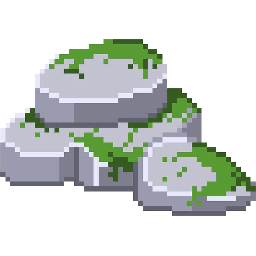
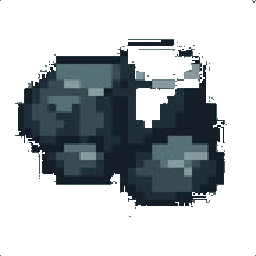
Terrain: bush, boulder, rocks, grass and water sprites; doors and windows taken out
Claude-Session: https://claude.ai/code/session_014ScUJAa2LXdg6ghJqmuJE6

diff --git a/app/session/parts/terrain-layer.tsx b/app/session/parts/terrain-layer.tsx
@@ -1,6 +1,6 @@
 "use client";
 // Terrain on the battle map: what each painted square looks like (the DM's own pictures from /public/terrain
-// when they're there, colours until then), heights, doors and windows; and the DM's paint tools.
+// when they're there, colours until then), heights; and the DM's paint tools.
 import { useState } from "react";
 import { KINDS, KIND_LIST, type Kind, type TerrainData } from "@/lib/engine/terrain";
 
@@ -8,9 +8,9 @@ import { KINDS, KIND_LIST, type Kind, type TerrainData } from "@/lib/engine/terr
  * Pictures in /public/terrain/<name>.png that are there (the DM's own). Grass, water, fire, lava and smoke stay
  * plain colours on purpose; everything else uses its colour until its picture is added here.
  */
-export const TERRAIN_PICTURES = new Set<string>(["barrel", "rocks", "crate", "torch", "wall", "tree"]);
+export const TERRAIN_PICTURES = new Set<string>(["barrel", "rocks", "boulder", "bush", "crate", "torch", "wall", "tree", "grass", "water-shallow", "water-deep"]);
 
-export type Brush = { kind: Kind | "clear" | null; height: number | null; door: "door" | "window" | null; size: 1 | 3 };
+export type Brush = { kind: Kind | "clear" | null; height: number | null; size: 1 | 3 };
 
 /** Draws the terrain (grid units). */
 export function TerrainLayer({ data }: { data: TerrainData }) {
@@ -43,20 +43,6 @@ export function TerrainLayer({ data }: { data: TerrainData }) {
           </g>
         );
       })}
-      {Object.entries(data.doors).map(([k, d]) => {
-        const [x, y] = k.split(",").map(Number);
-        const name = d.window ? "window" : d.open ? "door-open" : "door-closed";
-        const pic = TERRAIN_PICTURES.has(name) ? name : null;
-        return pic
-          ? <image key={`door${k}`} href={`/terrain/${pic}.png`} x={x} y={y} width={1} height={1} data-door={d.open ? "open" : "closed"} style={{ imageRendering: "pixelated" }} />
-          : (
-            <g key={`door${k}`} data-door={d.window ? "window" : d.open ? "open" : "closed"}>
-              <rect x={x + 0.08} y={y + 0.08} width={0.84} height={0.84} rx={0.08} fill={d.window ? "#9fd3ef" : d.open ? "none" : "#7a4a22"} fillOpacity={d.window ? 0.55 : 1}
-                stroke={d.window ? "#d9f1ff" : "#c08a52"} strokeWidth={0.07} strokeDasharray={d.open ? "0.15 0.1" : undefined} />
-              {!d.window && !d.open && <circle cx={x + 0.72} cy={y + 0.5} r={0.06} fill="#e5c07b" />}
-            </g>
-          );
-      })}
     </g>
   );
 }
@@ -66,10 +52,10 @@ const GLYPH: Partial<Record<Kind, string>> = {
   fire: "🔥", lava: "🌋", spikes: "✴", acid: "☣",
 };
 
-/** The DM's paint tools: what to paint, a height, doors and windows, brush size. */
+/** The DM's paint tools: what to paint, a height, brush size. */
 export function PaintTools({ brush, setBrush }: { brush: Brush | null; setBrush: (b: Brush | null) => void }) {
   const [h, setH] = useState("10");
-  const b: Brush = brush ?? { kind: null, height: null, door: null, size: 1 };
+  const b: Brush = brush ?? { kind: null, height: null, size: 1 };
   const pick = (next: Partial<Brush>) => setBrush({ ...b, ...next });
   const on = !!brush;
   return (
@@ -81,16 +67,12 @@ export function PaintTools({ brush, setBrush }: { brush: Brush | null; setBrush:
       <p className="text-xs text-muted">Pick what to paint, then drag a finger over the map (two fingers zoom). {on ? "" : "Tap a kind to start."}</p>
       <div className="mt-2 flex flex-wrap gap-1.5" role="radiogroup" aria-label="Terrain">
         {KIND_LIST.filter((k) => k !== "ground").map((k) => (
-          <button key={k} type="button" role="radio" aria-checked={b.kind === k && on} onClick={() => pick({ kind: k, door: null, height: null })}
+          <button key={k} type="button" role="radio" aria-checked={b.kind === k && on} onClick={() => pick({ kind: k, height: null })}
             className={`flex h-9 items-center gap-1.5 rounded-full border px-2.5 text-xs ${b.kind === k && on ? "border-accent bg-accent-surface font-bold text-accent" : "border-line text-soft"}`}>
             <span aria-hidden className="inline-block h-3 w-3 rounded-sm" style={{ background: KINDS[k].color === "transparent" ? "none" : KINDS[k].color }} />{KINDS[k].label}
           </button>
         ))}
-        <button type="button" role="radio" aria-checked={b.door === "door" && on} onClick={() => pick({ kind: null, door: "door", height: null })}
-          className={`h-9 rounded-full border px-2.5 text-xs ${b.door === "door" && on ? "border-accent bg-accent-surface font-bold text-accent" : "border-line text-soft"}`}>Door</button>
-        <button type="button" role="radio" aria-checked={b.door === "window" && on} onClick={() => pick({ kind: null, door: "window", height: null })}
-          className={`h-9 rounded-full border px-2.5 text-xs ${b.door === "window" && on ? "border-accent bg-accent-surface font-bold text-accent" : "border-line text-soft"}`}>Window</button>
-        <button type="button" role="radio" aria-checked={b.kind === "clear" && on} onClick={() => pick({ kind: "clear", door: null, height: null })}
+        <button type="button" role="radio" aria-checked={b.kind === "clear" && on} onClick={() => pick({ kind: "clear", height: null })}
           className={`h-9 rounded-full border px-2.5 text-xs ${b.kind === "clear" && on ? "border-danger-line bg-danger-bg font-bold text-danger" : "border-line text-soft"}`}>Erase</button>
       </div>
       <div className="mt-2 flex flex-wrap items-center gap-2 text-xs text-muted">
@@ -98,7 +80,7 @@ export function PaintTools({ brush, setBrush }: { brush: Brush | null; setBrush:
         <input inputMode="numeric" value={h} onChange={(e) => setH(e.target.value.replace(/[^\d-]/g, "").slice(0, 4))} aria-label="Height in feet"
           className="h-9 w-16 rounded-lg border border-line bg-bg px-2 text-sm text-text" />
         <span>ft</span>
-        <button type="button" aria-pressed={b.height !== null && on} onClick={() => pick({ height: Number(h) || 0, kind: b.kind === "clear" ? null : b.kind, door: null })}
+        <button type="button" aria-pressed={b.height !== null && on} onClick={() => pick({ height: Number(h) || 0, kind: b.kind === "clear" ? null : b.kind })}
           className={`h-9 rounded-full border px-2.5 ${b.height !== null && on ? "border-accent bg-accent-surface font-bold text-accent" : "border-line text-soft"}`}>Paint height</button>
         <span className="ml-auto">Brush</span>
         {([1, 3] as const).map((n) => (
@@ -107,7 +89,7 @@ export function PaintTools({ brush, setBrush }: { brush: Brush | null; setBrush:
         ))}
       </div>
       <p className="mt-1.5 text-[11px] leading-snug text-muted">
-        Walls, trees and boulders block moving (trees and boulders: up to three-quarters cover). Bushes, barrels, crates and windows: half cover.
+        Walls, trees and boulders block moving (trees and boulders: up to three-quarters cover). Bushes, barrels and crates: half cover.
         Grass, rocks, water and bushes: difficult terrain. Fire, lava, spikes and acid hurt. Height: climbing costs extra; higher ground blocks the view from below.
       </p>
     </div>

diff --git a/lib/engine/terrain.ts b/lib/engine/terrain.ts
@@ -1,6 +1,6 @@
 // Battle engine, part 5: what each kind of terrain does (pure, tested).
-// The DM paints squares with a kind (tree, water, barrels…), a height, doors and windows, and hazards.
-// Stored on the map as terrain v2: { v: 2, cells: { "3,4": { k: "tree", h: 10 } }, doors: { "5,5": { open: false } } }.
+// The DM paints squares with a kind (tree, water, barrels…), a height, and hazards.
+// Stored on the map as terrain v2: { v: 2, cells: { "3,4": { k: "tree", h: 10 } } }.
 // The old format ({ walls: [...], difficult: [...] }) still reads.
 
 export type Kind =
@@ -35,8 +35,7 @@ export const KIND_LIST = Object.keys(KINDS) as Kind[];
 export const isKind = (k: unknown): k is Kind => typeof k === "string" && k in KINDS;
 
 export type Cell = { k: Kind; h?: number };         // h: height in feet (+ hill, ledge; − pit)
-export type Door = { open: boolean; window?: boolean };
-export type TerrainData = { v: 2; cells: Record<string, Cell>; doors: Record<string, Door> };
+export type TerrainData = { v: 2; cells: Record<string, Cell> };
 
 const okKey = (s: string) => /^\d+,\d+$/.test(s);
 
@@ -44,7 +43,6 @@ const okKey = (s: string) => /^\d+,\d+$/.test(s);
 export function readTerrain(raw: unknown): TerrainData {
   const r = (raw && typeof raw === "object" ? raw : {}) as Record<string, unknown>;
   const cells: Record<string, Cell> = {};
-  const doors: Record<string, Door> = {};
   for (const k of (Array.isArray(r.walls) ? r.walls : []).map(String)) if (okKey(k)) cells[k] = { k: "wall" };
   for (const k of (Array.isArray(r.difficult) ? r.difficult : []).map(String)) if (okKey(k) && !cells[k]) cells[k] = { k: "difficult" };
   const rc = (r.cells && typeof r.cells === "object" ? r.cells : {}) as Record<string, unknown>;
@@ -57,29 +55,21 @@ export function readTerrain(raw: unknown): TerrainData {
     if (kind === "ground" && !h) continue;
     cells[k] = h ? { k: kind, h } : { k: kind };
   }
-  const rd = (r.doors && typeof r.doors === "object" ? r.doors : {}) as Record<string, unknown>;
-  for (const [k, v] of Object.entries(rd)) {
-    if (!okKey(k)) continue;
-    const d = (v ?? {}) as Record<string, unknown>;
-    doors[k] = { open: !!d.open, ...(d.window ? { window: true } : {}) };
-  }
-  return { v: 2, cells, doors };
+  return { v: 2, cells };
 }
 
-/** Paint squares: a kind (keeps the height), a height (keeps the kind), or clear. Doors and windows too. */
-export function paint(t: TerrainData, keys: string[], what: { kind?: Kind | "clear"; height?: number; door?: "door" | "window" | "none" }): TerrainData {
-  const cells = { ...t.cells }, doors = { ...t.doors };
+/** Paint squares: a kind (keeps the height), a height (keeps the kind), or clear. */
+export function paint(t: TerrainData, keys: string[], what: { kind?: Kind | "clear"; height?: number }): TerrainData {
+  const cells = { ...t.cells };
   for (const k of keys) {
     if (!okKey(k)) continue;
     const old = cells[k];
-    if (what.kind === "clear") { delete cells[k]; delete doors[k]; continue; }
+    if (what.kind === "clear") { delete cells[k]; continue; }
     const kind = what.kind ?? old?.k ?? "ground";
     const h = what.height !== undefined ? Math.max(-200, Math.min(200, Math.round(what.height))) : old?.h ?? 0;
     if (kind === "ground" && !h) delete cells[k]; else cells[k] = h ? { k: kind, h } : { k: kind };
-    if (what.door === "none") delete doors[k];
-    else if (what.door) doors[k] = { open: false, ...(what.door === "window" ? { window: true } : {}) };
   }
-  return { v: 2, cells, doors };
+  return { v: 2, cells };
 }
 
 /** The squares of a brush stroke between two points (a straight line of squares, `size` wide). */

diff --git a/app/session/parts/battle-map.tsx b/app/session/parts/battle-map.tsx
@@ -5,13 +5,13 @@ import { useRouter } from "next/navigation";
 import { useEffect, useMemo, useRef, useState, useTransition } from "react";
 import { inRange, place, squaresIn, tokensIn, type Placed } from "@/lib/maps/area";
 import { freeAt, squares } from "@/lib/maps/move";
-import { distanceFt, key as sqKey, reachableSquares, standUpCost, type MoveCtx } from "@/lib/engine/space";
+import { distanceFt, reachableSquares, standUpCost, type MoveCtx } from "@/lib/engine/space";
 import { speedOf } from "@/lib/engine/conditions";
 import type { Battle, BattleToken } from "@/lib/maps-data";
 import type { Combatant } from "@/lib/session-data";
 import { Board, type Pt } from "../../components/map/board";
 import { PortraitButton } from "../../components/map/portrait";
-import { castArea, dashToken, disengageToken, moveToken, paintTerrain, setTokenHidden, teleportToken, toggleDoor } from "../map-actions";
+import { castArea, dashToken, disengageToken, moveToken, paintTerrain, setTokenHidden, teleportToken } from "../map-actions";
 import { paint as paintCells, strokeSquares, type TerrainData } from "@/lib/engine/terrain";
 import { terrainOf } from "@/lib/engine/space";
 import { PaintTools, TerrainLayer, type Brush } from "./terrain-layer";
@@ -41,7 +41,7 @@ export function BattleMap({ battle, combatants, isDm, teleports = [], teleportCh
   const [hideArea, setHideArea] = useState<string | null>(null);
   // DM: painting terrain with a brush (squares change at once, the server keeps them)
   const [brush, setBrush] = useState<Brush | null>(null);
-  const paint = brush && (brush.kind || brush.door || brush.height !== null) ? brush : null;
+  const paint = brush && (brush.kind || brush.height !== null) ? brush : null;
   const [localT, setLocalT] = useState<TerrainData | null>(null);
   const pendingCells = useRef<Set<string>>(new Set());
   const flushTimer = useRef<ReturnType<typeof setTimeout> | null>(null);
@@ -122,7 +122,7 @@ export function BattleMap({ battle, combatants, isDm, teleports = [], teleportCh
 
   /** What the brush paints, as the server understands it. */
   const brushWhat = (b: Brush) => ({
-    ...(b.kind ? { kind: b.kind } : {}), ...(b.height !== null ? { height: b.height } : {}), ...(b.door ? { door: b.door } : {}),
+    ...(b.kind ? { kind: b.kind } : {}), ...(b.height !== null ? { height: b.height } : {}),
   });
   function brushStroke(from: Pt, to: Pt) {
     if (!paint || !isDm) return;
@@ -149,12 +149,6 @@ export function BattleMap({ battle, combatants, isDm, teleports = [], teleportCh
     if (Object.keys(optimistic).length) return; // the last move is still on its way
     const sq = { x: Math.floor(p.x), y: Math.floor(p.y) };
     if (paint && isDm) return; // painting happens on the brush strokes
-    // a door: open or close it (players: on their turn, standing next to it)
-    const doorKey = sqKey(sq.x, sq.y);
-    const door = tData.doors[doorKey];
-    if (door && !door.window && !aim && !tele) {
-      return act(() => toggleDoor(doorKey), (r) => setNote(r.open ? "The door is open." : "The door is closed."));
-    }
     const at = tokens.find((t) => sq.x >= t.x && sq.x < t.x + t.size && sq.y >= t.y && sq.y < t.y + t.size) ?? null;
     if (aim) {
       if (aim.spec.shape === "targets") {

diff --git a/app/session/map-actions.ts b/app/session/map-actions.ts
@@ -7,7 +7,7 @@ import { ensureTokens } from "@/lib/maps-data";
 import { freeAt, moveBudget, squares, TELEPORTS } from "@/lib/maps/move";
 import { battleState, moveCtx, terrainHarm, who } from "@/lib/maps/server";
 import { canAct, speedOf } from "@/lib/engine/conditions";
-import { distanceFt, moveCosts, provoked, standingZ, standUpCost } from "@/lib/engine/space";
+import { moveCosts, provoked, standingZ, standUpCost } from "@/lib/engine/space";
 import { isKind, paint, readTerrain, type Kind } from "@/lib/engine/terrain";
 import { addEffect } from "./effect-actions";
 import { liveState, touchCombat } from "@/lib/roll-service";
@@ -198,8 +198,8 @@ export async function castArea(characterId: string, optionKey: string, aim: { x:
   return { ...res, hit: targets.length };
 }
 
-/** DM: paint squares of the fight's map: a kind of terrain, a height, a door or window, or clear them. */
-export async function paintTerrain(cells: string[], what: { kind?: Kind | "clear"; height?: number; door?: "door" | "window" | "none" }): Promise<Fail | { ok: true }> {
+/** DM: paint squares of the fight's map: a kind of terrain, a height, or clear them. */
+export async function paintTerrain(cells: string[], what: { kind?: Kind | "clear"; height?: number }): Promise<Fail | { ok: true }> {
   const me = await who();
   if (!me.campaignId || !me.isDm) return { error: "Only the DM can paint the map." };
   const b = await battleState(me.campaignId);
@@ -213,23 +213,3 @@ export async function paintTerrain(cells: string[], what: { kind?: Kind | "clear
   return { ok: true };
 }
 
-/** Open or close a door: the DM any time; a player on their turn, standing next to it. */
-export async function toggleDoor(cell: string): Promise<Fail | { open: boolean }> {
-  const me = await who();
-  if (!me.userId || !me.campaignId) return { error: "Log in first." };
-  const b = await battleState(me.campaignId);
-  if (!b) return NO_MAP;
-  const t = readTerrain(b.terrainRaw);
-  const door = t.doors[cell];
-  if (!door || door.window) return { error: "There's no door there." };
-  if (!me.isDm) {
-    const mine = b.tokens.find((k) => k.owner === me.userId && k.combatant_id === b.currentCombatantId);
-    if (!mine) return { error: "You can open doors on your turn." };
-    const [x, y] = cell.split(",").map(Number);
-    if (distanceFt(mine, { id: "door", x, y, size: 1 }, b.map.feet, b.diag) > 5) return { error: "Stand next to the door to open it." };
-  }
-  t.doors[cell] = { ...door, open: !door.open };
-  await b.admin.from("battle_maps").update({ terrain: t }).eq("id", b.map.id);
-  await touchCombat(b.admin, b.combat.id);
-  return { open: !door.open };
-}

diff --git a/lib/engine/space.ts b/lib/engine/space.ts
@@ -8,11 +8,11 @@ export type Pos = { x: number; y: number };
 /** z: feet above the ground it stands on (flying); the ground's own height comes from the terrain. */
 export type Body = Pos & { id: string; size: number; z?: number };
 export type Terrain = {
-  walls: Set<string>;      // can't move through (walls, trees, boulders, closed doors, windows)
+  walls: Set<string>;      // can't move through (walls, trees, boulders)
   difficult: Set<string>;  // costs double
-  sight: Set<string>;      // blocks sight completely (walls, closed doors)
+  sight: Set<string>;      // blocks sight completely (walls)
   capped: Set<string>;     // blocks sight, but gives three-quarters cover at most (trees, boulders)
-  half: Set<string>;       // half cover (bushes, barrels, crates, windows)
+  half: Set<string>;       // half cover (bushes, barrels, crates)
   height: Map<string, number>; // feet above (or below) the floor
   obscured: Set<string>;   // lightly obscured (tall grass, bushes)
   hazards: Map<string, HazardRule & { kind: Kind }>;
@@ -20,7 +20,7 @@ export type Terrain = {
 };
 export const key = (x: number, y: number) => `${x},${y}`;
 
-/** Terrain as stored with a map (old { walls, difficult } lists, or v2 cells / doors). */
+/** Terrain as stored with a map (old { walls, difficult } lists, or v2 cells). */
 export function terrainOf(raw: unknown): Terrain {
   const d = readTerrain(raw);
   const t: Terrain = { walls: new Set(), difficult: new Set(), sight: new Set(), capped: new Set(), half: new Set(), height: new Map(), obscured: new Set(), hazards: new Map(), swim: new Set() };
@@ -35,10 +35,6 @@ export function terrainOf(raw: unknown): Terrain {
     if (r.swim) t.swim.add(k);
     if (r.hazard) t.hazards.set(k, { ...r.hazard, kind: c.k });
     if (c.h) t.height.set(k, c.h);
-  }
-  for (const [k, door] of Object.entries(d.doors)) {
-    if (door.window) { t.walls.add(k); t.half.add(k); continue; }
-    if (!door.open) { t.walls.add(k); t.sight.add(k); }
   }
   return t;
 }

diff --git a/lib/engine/terrain.test.ts b/lib/engine/terrain.test.ts
@@ -13,7 +13,6 @@ describe("terrain kinds", () => {
     expect(p.cells["3,3"]).toEqual({ k: "tree" });
     expect(paint(p, ["3,3"], { height: 10 }).cells["3,3"]).toEqual({ k: "tree", h: 10 });
     expect(paint(p, ["3,3"], { kind: "clear" }).cells["3,3"]).toBeUndefined();
-    expect(paint(t, ["4,4"], { door: "door" }).doors["4,4"]).toEqual({ open: false });
     expect(strokeSquares({ x: 0.5, y: 0.5 }, { x: 3.5, y: 0.5 })).toEqual(["0,0", "1,0", "2,0", "3,0"]);
     expect(strokeSquares({ x: 2.5, y: 2.5 }, { x: 2.5, y: 2.5 }, 3)).toHaveLength(9);
   });
@@ -24,14 +23,6 @@ describe("terrain kinds", () => {
     const forest = terrainOf({ v: 2, cells: Object.fromEntries([0, 1, 2, 3, 4, 5, 6].flatMap((y) => [[`2,${y}`, { k: "boulder" }]])) });
     expect(coverOf(b("a", 0, 3), b("t", 4, 3), forest, []).level).toBe("three-quarters");
     expect(coverOf(b("a", 0, 0), b("t", 4, 0), terrainOf({ v: 2, cells: { "2,0": { k: "barrel" } } }), []).level).toBe("half");
-  });
-  it("closed doors block, open ones don't; windows block moving but not sight", () => {
-    const shut = terrainOf({ v: 2, cells: {}, doors: { "1,0": { open: false } } });
-    expect(shut.walls.has("1,0")).toBe(true);
-    expect(terrainOf({ v: 2, cells: {}, doors: { "1,0": { open: true } } }).walls.has("1,0")).toBe(false);
-    const win = terrainOf({ v: 2, cells: {}, doors: { "1,0": { open: false, window: true } } });
-    expect(win.walls.has("1,0")).toBe(true);
-    expect(win.sight.has("1,0")).toBe(false);
   });
   it("height: climbing costs extra, distance counts it, a ridge blocks the view from below", () => {
     const hill = { v: 2, cells: { "1,0": { k: "ground", h: 10 } } };

diff --git a/public/terrain/README.md b/public/terrain/README.md
@@ -1,4 +1,4 @@
 Terrain pictures for the battle map (top-down, 32-bit PNG with transparency, square, 256×256).
-Names: tree, bush, rocks, boulder, barrel, crate, wall, door-closed, door-open, window, spikes, acid, torch (+ stairs, cliff).
-Grass, water, deep water, fire, lava and smoke are plain colours on purpose.
+Names: tree, bush, rocks, boulder, barrel, crate, wall, grass, water-shallow, water-deep, spikes, acid, torch (+ stairs, cliff).
+Fire, lava and smoke are plain colours.
 Add a picture's name to TERRAIN_PICTURES in app/session/parts/terrain-layer.tsx when its file is here.
